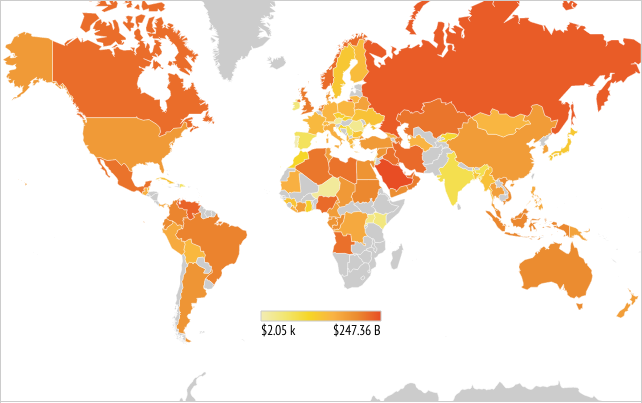
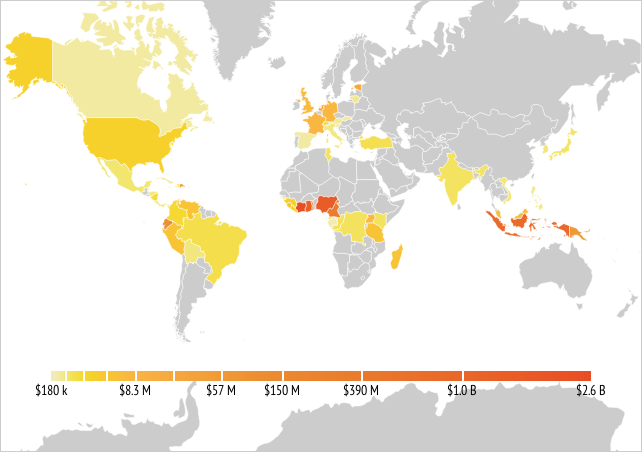
Changed Map Key to include tick marks, remove any countries below $100k, and updated accompanying blog and homepage images.

diff --git a/media/js/apps/map.js b/media/js/apps/map.js
@@ -20,10 +20,12 @@ Map.prototype.build = function(){
 	var _this = this;
 	var color_noData = "#ccc";
 	var color_countryStroke = "#fff";
+	var color_countryHighlight = "#444";
   // var color_gradient = ["#000096","#000cec","#005fff","#05bef8","#2affd4","#90ff70","#eaf215","#ffa200","#f94300","#d90000","#960000"];
   var color_gradient = ["#f2ecb4", "#f2e671", "#f6d626", "#f9b344", "#eb8c30", "#e84d24"]
 	
-	var value_range = get_range(_this.current_data);
+	var value_range = get_range(_this.current_data,5);
+	var value_range_big = get_range(_this.current_data,10);
 	var value_color = d3.scale.log()
 		.domain(value_range)
 		.interpolate(d3.interpolateRgb)
@@ -43,22 +45,26 @@ Map.prototype.build = function(){
 		.attr("fill", function(d){
 			var item_data = get_map_val(d.id, _this.current_data, _this.attr_data)
 			if(item_data){
-				if(item_data.value > 0) return value_color(item_data.value);
+				if(item_data.value > 100000) return value_color(item_data.value);
+				else return color_noData;
 			}
 			return color_noData
 		})
 		.attr("stroke", color_countryStroke)
-		.attr("stroke-width", 0.4)
+		.attr("stroke-width", 0.5)
 		.attr("d", d3.geo.path().projection(map_projection))
 		.on("mouseover", function(d, i){
 			
+			this.parentNode.appendChild(this);
+			d3.select(this).attr("stroke",color_countryHighlight);
+			d3.select(this).attr("stroke-width",1);
 			var item_data = get_map_val(d.id, _this.current_data, _this.attr_data)
 			var attr = get_map_attr(d.id, _this.attr_data)
 			
 			var sub_text = ""
 			if(item_data && ((format_big_num(item_data.value)[0] + format_big_num(item_data.value)[1]) != 0)){
-				sub_text = "Value: $" + format_big_num(item_data.value)[0] + format_big_num(item_data.value)[1]
-					sub_text += item_data.rca ? " RCA: " + d3.format(".2f")(item_data.rca) : "";
+				sub_text = "Value: $" + format_big_num(item_data.value)[0] + format_big_num(item_data.value)[1];
+				if(item_data.rca && (item_data.rca != 0)) sub_text += " RCA: " + d3.format(".2r")(item_data.rca);
 			} else {
 				sub_text = "No Data"
 			}
@@ -73,6 +79,8 @@ Map.prototype.build = function(){
 		})
 		.on("mouseout", function(d, i){
 			_this.svg.select(".info").remove();
+			d3.select(this).attr("stroke",color_countryStroke);
+			d3.select(this).attr("stroke-width",0.5);
 		})
 		
 		
@@ -88,36 +96,90 @@ Map.prototype.build = function(){
 				.attr("spreadMethod", "pad");
 		
 		for(var i=0; i<=100; i=i+20 ){
+		  percent = Math.round((1*Math.pow((100/1),i/100)))
 			gradient.append("stop")
-				.attr("offset", i+"%")
+				.attr("offset", percent+"%")
 				.attr("stop-color", color_gradient[i/20])
 				.attr("stop-opacity", 1);
 		}
 
 		_this.svg.append("rect")
-			.attr("x", 260)
-			.attr("y", 310)
-			.attr("width", 120)
+			.attr("x", 50)
+			.attr("y", 370)
+			.attr("width", 540)
 			.attr("height", 10)
-			.attr("stroke", color_noData)
 			.style("fill", "url(#gradient)");
+			
+      for(var i=1; i<10; i++ ){
+    		_this.svg.append("rect")
+    			.attr("x", Math.round((50*Math.pow((590/50),i/10))))
+    			.attr("y", 370)
+    			.attr("width", 2)
+    			.attr("height", 10)
+    			.style("fill", "#fff");
+			}
 		
 		_this.svg.append("text")
-			.attr("x", 260)
-			.attr("y", 322)
+			.attr("x", 50)
+			.attr("y", 382)
 			.attr("dy", 12)
-			.attr("text-anchor", "start")
+			.attr("text-anchor", "middle")
 			.text(function(){
 				return "$"+format_big_num(value_range[0])[0] + " " + format_big_num(value_range[0])[1];
 			})
+
+		_this.svg.append("text")
+			.attr("x", Math.round((50*Math.pow((590/50),0.4))))
+			.attr("y", 382)
+			.attr("dy", 12)
+			.attr("text-anchor", "middle")
+			.text(function(){
+				return "$"+format_big_num(value_range_big[4])[0] + " " + format_big_num(value_range_big[4])[1];
+			})
+
+		_this.svg.append("text")
+			.attr("x", Math.round((50*Math.pow((590/50),0.6))))
+			.attr("y", 382)
+			.attr("dy", 12)
+			.attr("text-anchor", "middle")
+			.text(function(){
+				return "$"+format_big_num(value_range_big[6])[0] + " " + format_big_num(value_range_big[6])[1];
+			})
+
+		_this.svg.append("text")
+			.attr("x", Math.round((50*Math.pow((590/50),0.7))))
+			.attr("y", 382)
+			.attr("dy", 12)
+			.attr("text-anchor", "middle")
+			.text(function(){
+				return "$"+format_big_num(value_range_big[7])[0] + " " + format_big_num(value_range_big[7])[1];
+			})
+
+		_this.svg.append("text")
+			.attr("x", Math.round((50*Math.pow((590/50),0.8))))
+			.attr("y", 382)
+			.attr("dy", 12)
+			.attr("text-anchor", "middle")
+			.text(function(){
+				return "$"+format_big_num(value_range_big[8])[0] + " " + format_big_num(value_range_big[8])[1];
+			})
+
+  		_this.svg.append("text")
+  			.attr("x", Math.round((50*Math.pow((590/50),0.9))))
+  			.attr("y", 382)
+  			.attr("dy", 12)
+  			.attr("text-anchor", "middle")
+  			.text(function(){
+  				return "$"+format_big_num(value_range_big[9])[0] + " " + format_big_num(value_range_big[9])[1];
+  			})
 		
 		_this.svg.append("text")
-			.attr("x", 380)
-			.attr("y", 322)
+			.attr("x", 590)
+			.attr("y", 382)
 			.attr("dy", 12)
-			.attr("text-anchor", "end")
+			.attr("text-anchor", "middle")
 			.text(function(){
-				return "$"+format_big_num(value_range[5])[0] + " " + format_big_num(value_range[5])[1];
+				return "$"+format_big_num(value_range_big[10])[0] + " " + format_big_num(value_range_big[10])[1];
 			})
 	
 }
@@ -144,9 +206,9 @@ function get_map_attr(name_3char, attr_data){
 	return attr_item[0];
 }
 
-function get_range(this_years_data){
+function get_range(this_years_data,size){
 	var min = d3.min(this_years_data, function(c) {
-		if(c.value > 0) return c.value
+		if(c.value > 100000) return c.value
 	});
 	var max = d3.max(this_years_data, function(c) {
 		if(c.value > 0) return c.value
@@ -157,7 +219,8 @@ function get_range(this_years_data){
   // console.log(linear_10_buckets)
   // console.log(log_10_buckets)
   // console.log(log_5_buckets)
-	return log_5_buckets;
+	if (size == 10 ) return log_10_buckets;
+	if (size == 5 ) return log_5_buckets;
 }
 
 

diff --git a/media/js/apps/tree_map.js b/media/js/apps/tree_map.js
@@ -217,7 +217,7 @@ TreeMap.prototype.add_mouse_events = function(){
 	cell.on("mouseover", function(d){
 		var sub_text = "Value: $" + format_big_num(d.value)[0] + format_big_num(d.value)[1]
 			sub_text += " Share: " + d3.format(".2p")(d.value / d.parent.parent.parent.value)
-			sub_text += d.data.rca ? " RCA: " + d3.format(".2f")(d.data.rca) : "";
+			sub_text += d.data.rca ? " RCA: " + d3.format(".2r")(d.data.rca) : "";
 		var a = _this.attr_data[d.data.item_id]; // This items attributes
 		var mouseover_d = {
 			"title": a.name,
@@ -299,19 +299,19 @@ function format_big_num(d){
 	}
 	d = Math.abs(d);
 	if(d >= 1e3){
-		n = d3.format(".2f")(d/1e3);
+		n = d3.format(".2r")(d/1e3);
 		s = "k";
 	}
 	if(d >= 1e6){
-		n = d3.format(".2f")(d/1e6);
+		n = d3.format(".2r")(d/1e6);
 		s = "M";
 	}
 	if(d >= 1e9){
-		n = d3.format(".2f")(d/1e9);
+		n = d3.format(".2r")(d/1e9);
 		s = "B";
 	}
 	if(d >= 1e12){
-		n = d3.format(".2f")(d/1e12);
+		n = d3.format(".2r")(d/1e12);
 		s = "T";
 	}
 	if(d == 0){

diff --git a/html/explore/index.html b/html/explore/index.html
@@ -919,8 +919,8 @@
 				set_accordion(2);
 				break;
 			case "map":
-    		app_data.height = 400;
-    		$("#dataviz").css("height",400);
+    		app_data.height = 450;
+    		$("#dataviz").css("height",450);
 				var app = new Map(app_data);
 				app.build();
 				set_accordion(4);
